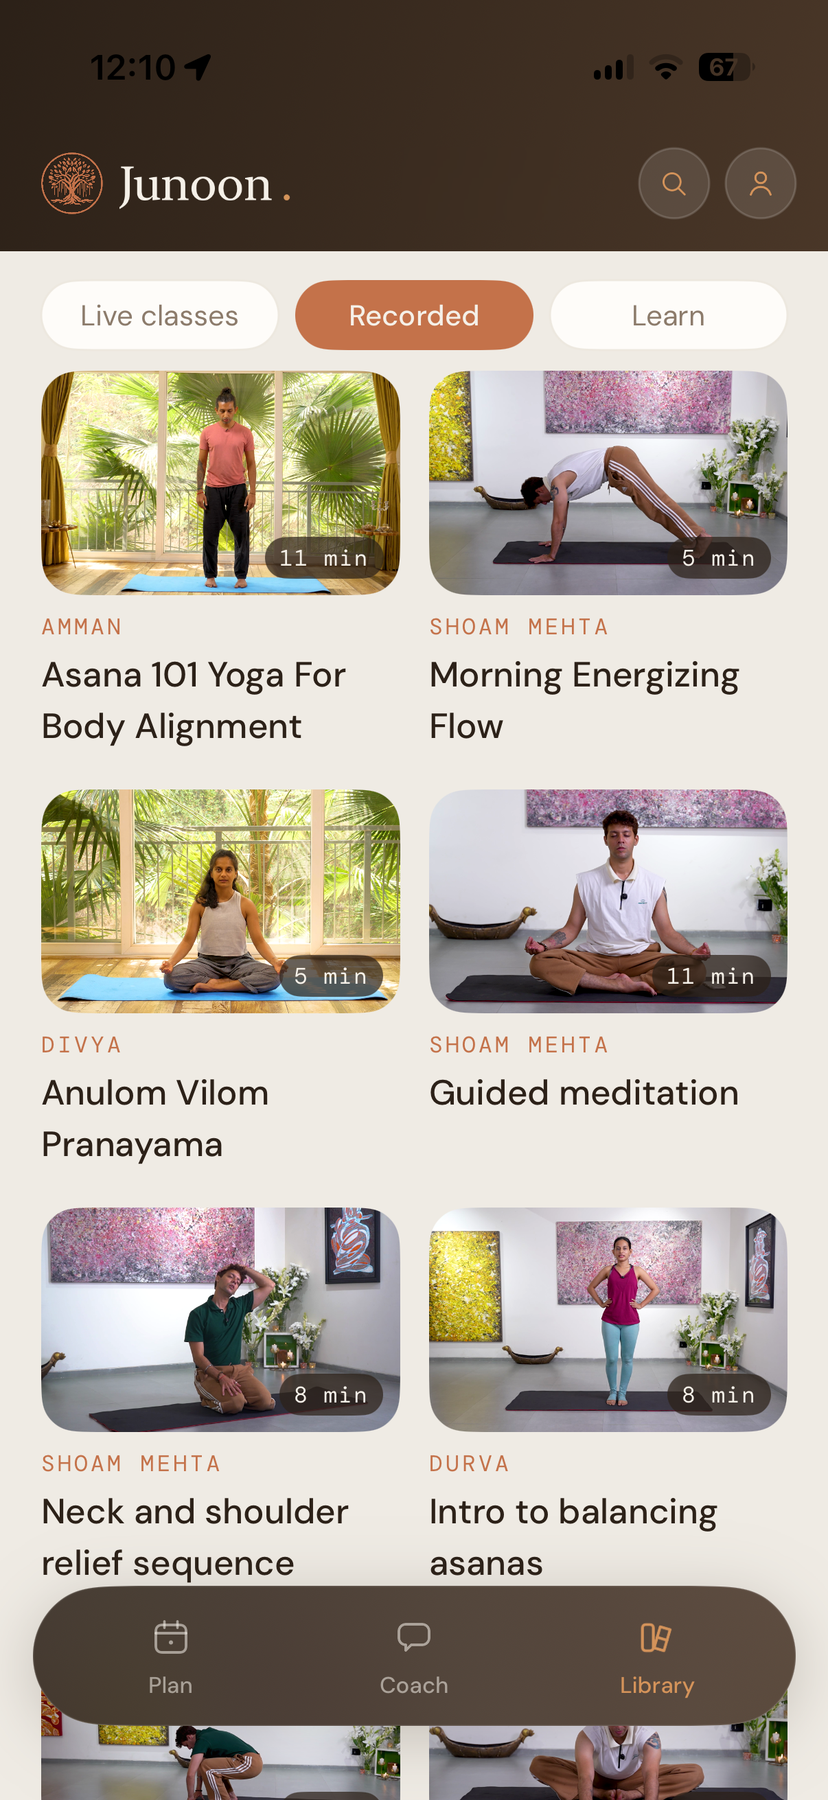
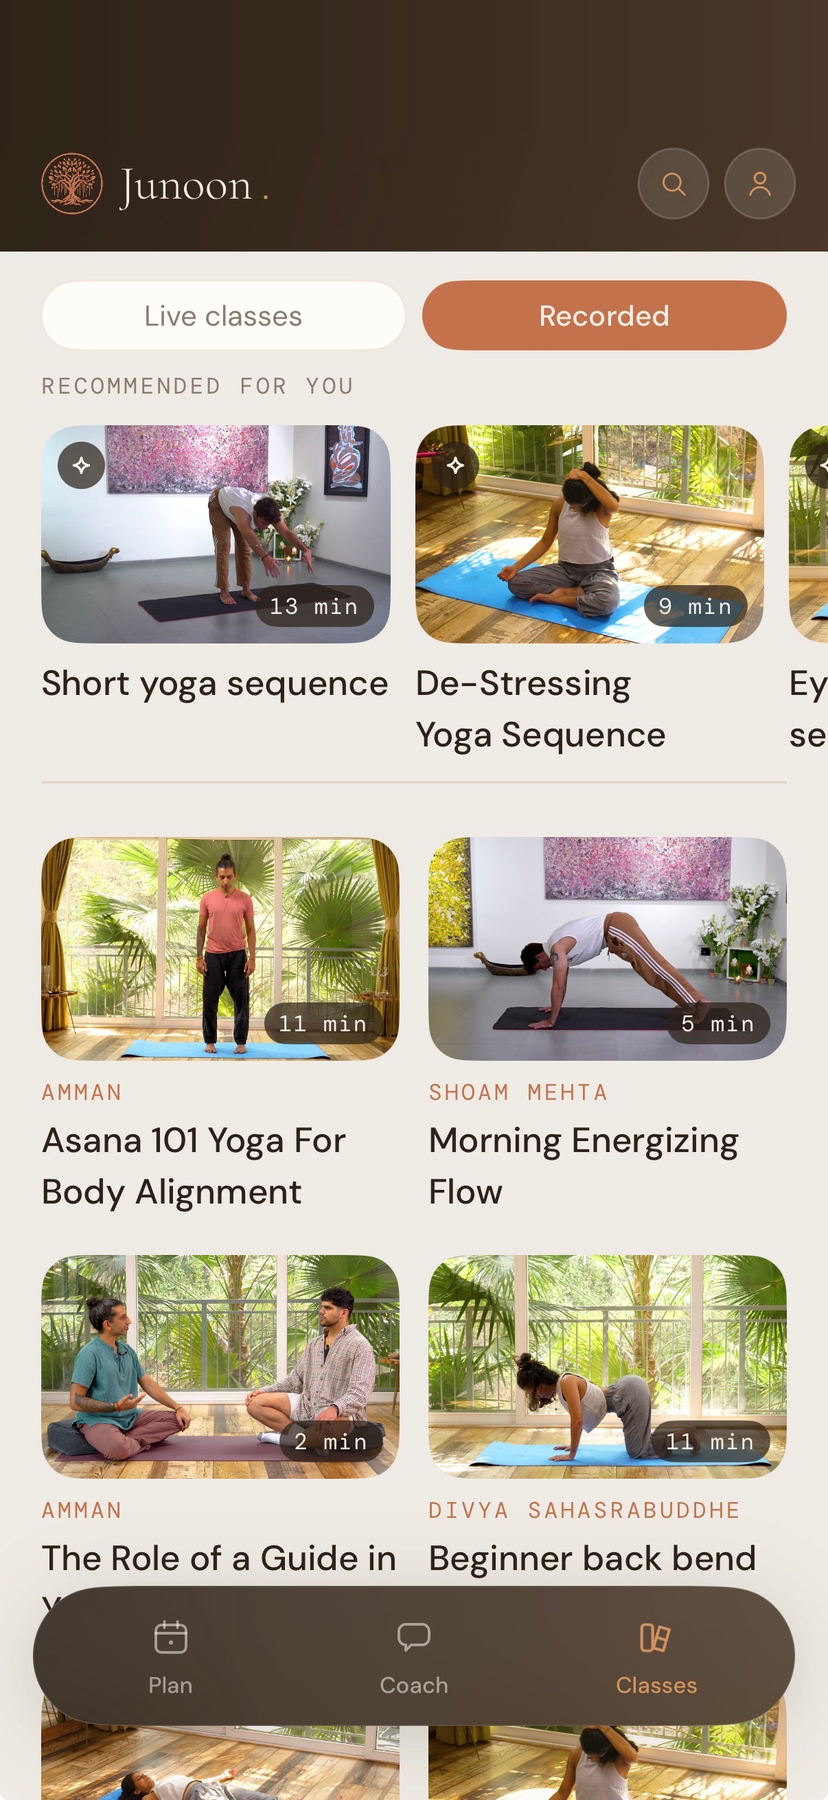
Refresh the three app screenshots we have current captures for
Coach, Plan and Library swapped for 2026-08-30 captures (the app's tab bar
now reads Classes, not Library). The other five screens keep their Aug 9
captures per Kush's ruling — refresh only what we have new shots of.

The new captures start at the app header rather than the iOS status bar, so
each is proportionally resized to 828 wide and topped up to 1800 by repeating
its own first row, which continues the header gradient with no seam. That
exact size matters: .v2-device img is object-fit:cover, so anything off-ratio
loses its sides and the header buttons with them.

Alt text for coachChat and planTab rewritten — both described content the new
captures do not contain. Filenames deliberately unchanged: KEEPER-SPEC,
POSTER-SPEC and SEED-LIBRARY all bind cards to these paths.

diff --git a/lib/screens.ts b/lib/screens.ts
@@ -41,8 +41,18 @@ export const SCREENS = {
   },
   coachChat: {
     src: '/screenshots/v3/coach-chat.png',
+    // 2026-08-30: swapped for a current capture (Kush's ruling — refresh only
+    // the screens we have new shots of, leave the rest). The 2026-08-09 batch
+    // was full-screen 1206x2622 including the iOS status bar; this one starts
+    // at the app header, so it is proportionally resized to 828 wide and the
+    // remaining 110px is the capture's own first row repeated upward, which
+    // continues the header's horizontal gradient with no seam. Do NOT drop a
+    // raw capture in here: .v2-device img is object-fit:cover, so anything
+    // that is not 828x1800 gets its SIDES cropped and loses the header
+    // buttons. Alt rewritten — the old one described the retired
+    // swap-a-class conversation and no longer matched the image.
     alt:
-      'The Junoon coach in conversation, swapping a scheduled class for a gentler practice on request',
+      'The Junoon coach introducing itself, offering to build a routine around yoga, meditation and the habits around them',
   },
   coachPicks: {
     src: '/screenshots/v3/coach-picks.png',
@@ -51,6 +61,11 @@ export const SCREENS = {
   },
   library: {
     src: '/screenshots/v3/library.png',
+    // 2026-08-30: current capture, same treatment as coachChat above. The
+    // file name stays `library` because KEEPER-SPEC, POSTER-SPEC and
+    // SEED-LIBRARY all bind cards to these filenames — the app's own tab is
+    // now labelled "Classes", which is why this shot shows a Classes tab bar.
+    // Alt still accurate: it is the recorded shelf either way.
     alt:
       'The Junoon library of recorded yoga, meditation and pranayama classes with their lengths and instructors',
   },
@@ -66,8 +81,11 @@ export const SCREENS = {
   },
   planTab: {
     src: '/screenshots/v3/plan-tab.png',
+    // 2026-08-30: current capture, same treatment as coachChat above. Alt
+    // rewritten — the old one promised habits and nutrition items that this
+    // day does not contain.
     alt:
-      'The Junoon plan tab with a populated day of practice, habits and nutrition across morning, midday and evening',
+      'The Junoon plan tab with the day laid out across morning, midday and evening: a midday yoga sequence and an evening guided meditation',
   },
 } as const satisfies Record<string, Screen>
 
